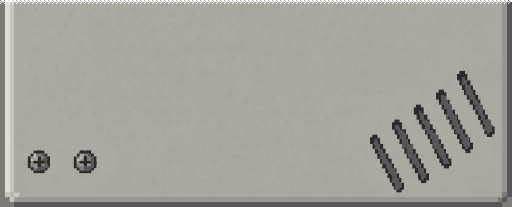
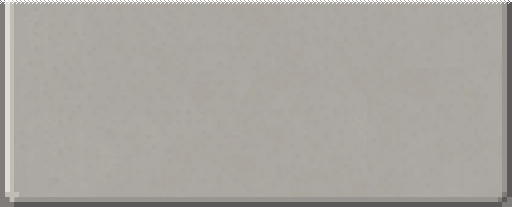
Clear Retro Grey's LED, screws and speaker off the plastic under its keys
The painting put an LED, two screws and a speaker grille on the grey plastic where the d-pad and
the keys stand, and they showed round them. bake.py --clear covers a box of the painting with plain
plastic from beside it, the plainest neighbour of its size, so its faint grain carries on; Retro
Grey's shells are baked again with each detail cleared, held sideways and upright.

A regression test holds the plastic under the keys plain: nothing as dark as the slots or the
screws, nothing as red as the LED, inside the rim, the bezel's outline and the line under the screen.

Claude-Session: https://claude.ai/code/session_01JafcuBaonJce7ZKsur3d51

Changed region(s): [[0.7188, 0.3478, 0.9688, 0.9275], [0.0312, 0.7246, 0.1875, 0.8406]]

diff --git a/apps/web/games/steel-and-dust/test/regression/pixel-skin-grips.test.js b/apps/web/games/steel-and-dust/test/regression/pixel-skin-grips.test.js
@@ -5,6 +5,19 @@ import { readPngAlpha } from '../support/png-alpha.js';
 const GAME = new URL('../../', import.meta.url);
 const TOKENS = readFileSync(new URL('styles/tokens.css', GAME), 'utf8');
 const PIECES = ['left', 'left-foot', 'right', 'right-foot'];
+const PLASTIC = [
+  'landscape-left',
+  'landscape-left-foot',
+  'landscape-right',
+  'landscape-right-foot',
+  'portrait-body',
+  'portrait-foot',
+];
+// the plastic the keys stand on, inside the rim, the bezel's outline and the line under the screen
+// that run round each piece's edge
+const EDGE = 24;
+// darker than the rim's shade and that line: the speaker's slots and the screws
+const DARK = 240;
 
 const tokenColour = (name) => {
   const hex = TOKENS.match(new RegExp(`--${name}: #([0-9a-f]{6});`))[1];
@@ -35,6 +48,24 @@ function shareOf(path, colour, near = 16) {
   return matching / painted;
 }
 
+// the pixels on the plastic under the keys darker than its rim's shade, or as red as an LED
+function marksOn(art) {
+  const marks = [];
+
+  for (let y = EDGE; y < art.height - EDGE; y++) {
+    for (let x = EDGE; x < art.width - EDGE; x++) {
+      const [red, green, blue] = art.rgb(x, y);
+      const lit = art.alpha(x, y) > 0;
+
+      if (lit && (red + green + blue < DARK || red - green > 60)) {
+        marks.push([x, y]);
+      }
+    }
+  }
+
+  return marks;
+}
+
 describe("Retro Grey's grips held sideways", () => {
   // the grips took in the purple bezel round the screen, its inner 46 px beside the game, so the
   // d-pad, HEAVY and the pills stood on the bezel: a grip is the grey plastic alone, and the bezel
@@ -46,6 +77,16 @@ describe("Retro Grey's grips held sideways", () => {
       const path = new URL(`assets/skins/retro/landscape-${piece}.png`, GAME);
 
       expect(shareOf(path, bezel), piece).toBeLessThan(0.01);
+    }
+  });
+
+  // the painting's LED, screws and speaker grille stood under the d-pad and the keys, showing round
+  // them: the plastic under the keys is plain, but for its own faint grain
+  it('show no LED, screws or speaker on their plain plastic', () => {
+    for (const piece of PLASTIC) {
+      const marks = marksOn(readPngAlpha(new URL(`assets/skins/retro/${piece}.png`, GAME)));
+
+      expect(marks.length, `${piece} ${marks.slice(0, 3).join(' ')}`).toBe(0);
     }
   });
 });

diff --git a/tools/pixel_skin/bake.py b/tools/pixel_skin/bake.py
@@ -1,11 +1,12 @@
 #!/usr/bin/env python3
 """Bake a pixel-art skin from ChatGPT's paintings (assets/skins/README.md, "Pixel skins").
 
-    python3 tools/pixel_skin/bake.py landscape PAINTING OUT_DIR [--block N] [--frame]
+    python3 tools/pixel_skin/bake.py landscape PAINTING OUT_DIR [--block N] [--frame] [--clear BOX]…
         the shell held sideways, its window in the middle: each grip running down from the top
         (landscape-left.png, landscape-right.png) and its foot (…-foot.png), the top and the
         bottom band reaching both ways from their ornaments (landscape-top.png, …-bottom.png)
     python3 tools/pixel_skin/bake.py portrait PAINTING OUT_DIR [--block N] [--trim ROWS] [--frame]
+                                                      [--clear BOX]…
         the shell held upright, its window at the top: the rim round the window (portrait-crown),
         the emblem under it running down (portrait-body) and the foot (portrait-foot)
     python3 tools/pixel_skin/bake.py keys SHEET OUT_DIR
@@ -101,6 +102,27 @@ def long_band(band, length):
     return extended_left(right, left_segment, length)
 
 
+def cleared(image, boxes):
+    """The painting with each box covered by plain shell from beside it, the plainest neighbour of
+    its size: an LED, screws or a speaker painted where the keys stand show round them"""
+    out = image.copy()
+    height_of, width_of = image.shape[:2]
+
+    for left, top, right, bottom in boxes:
+        width, height = right - left, bottom - top
+        sources = [(left, top - height), (left, bottom), (left - width, top), (right, top)]
+        inside = [(x, y) for x, y in sources
+                  if x >= 0 and y >= 0 and x + width <= width_of and y + height <= height_of]
+        x, y = min(inside, key=lambda at: image[at[1] : at[1] + height, at[0] : at[0] + width].std())
+        out[top:bottom, left:right] = image[y : y + height, x : x + width]
+
+    return out
+
+
+def box_of(text):
+    return tuple(int(value) for value in text.split(','))
+
+
 def window_of(image, seed, frame):
     window = window_box(image, seed)
 
@@ -178,11 +200,17 @@ def main():
                              'whose blocks are no one size (grid.py, read_painted)')
     parser.add_argument('--trim', type=int, default=WINDOW_TRIM,
                         help='rows of the painted frame under the upright window to leave out')
+    parser.add_argument('--clear', type=box_of, action='append', default=[], metavar='X0,Y0,X1,Y1',
+                        help='cover this box of the painting with plain shell from beside it, for a '
+                             'detail painted where the keys stand (an LED, screws, a speaker)')
     parser.add_argument('--frame', action='store_true',
                         help='the window takes in the frame round the black, a screen\'s bezel, '
                              'so the grips are the shell alone and no key stands on the bezel')
     args = parser.parse_args()
     image = load(args.source, 'RGBA' if args.command == 'keys' else 'RGB')
+
+    if args.clear:
+        image = cleared(image, args.clear)
 
     if args.command == 'keys':
         bake_keys(image, args.out_dir)

diff --git a/apps/web/games/steel-and-dust/assets/skins/README.md b/apps/web/games/steel-and-dust/assets/skins/README.md
@@ -113,8 +113,11 @@ screen has the window's bronze trim (`--shadow-sandstone-bezel`). Its bands are 
 
 ### Retro Grey
 
-Grey plastic, a purple bezel round the screen with an LED, two screws and a speaker grille, red
-round keys and grey pills slanting 19 degrees, as a 1989 handheld's start and select. Baked as
+Grey plastic, a purple bezel round the screen, red round keys and grey pills slanting 19 degrees,
+as a 1989 handheld's start and select. Its painting had an LED, two screws and a speaker grille on
+the plastic, where the d-pad and the keys stand, and they showed round them, so the bake covers
+each with plain plastic from beside it, the plainest neighbour of its size (`--clear`, a box of the
+painting each). Baked as
 painted (`--block 2`, its grips 116 of those pixels across and its bands 1624 long). Its bezel
 belongs to the window (`--frame`, the window taken out over the colour round the black to where it
 ends): left in the grips, it made their inner 46 px purple, and the d-pad, HEAVY and the pills
@@ -126,7 +129,7 @@ the bake leaves out the bezel's outline under the window too (`--trim 5`), as
 under the label at the size of the art's box (`--pixel-pill-art-*`).
 
 ```bash
-python3 tools/pixel_skin/bake.py landscape shell-sideways.png apps/web/games/steel-and-dust/assets/skins/retro --block 2 --frame
-python3 tools/pixel_skin/bake.py portrait shell-upright.png apps/web/games/steel-and-dust/assets/skins/retro --block 2 --frame --trim 5
+python3 tools/pixel_skin/bake.py landscape shell-sideways.png apps/web/games/steel-and-dust/assets/skins/retro --block 2 --frame --clear 43,60,100,119 --clear 42,891,170,943 --clear 1325,764,1516,966
+python3 tools/pixel_skin/bake.py portrait shell-upright.png apps/web/games/steel-and-dust/assets/skins/retro --block 2 --frame --trim 5 --clear 48,1417,200,1476 --clear 734,1258,996,1510
 python3 tools/pixel_skin/bake.py keys keys.png apps/web/games/steel-and-dust/assets/skins/retro
 ```
